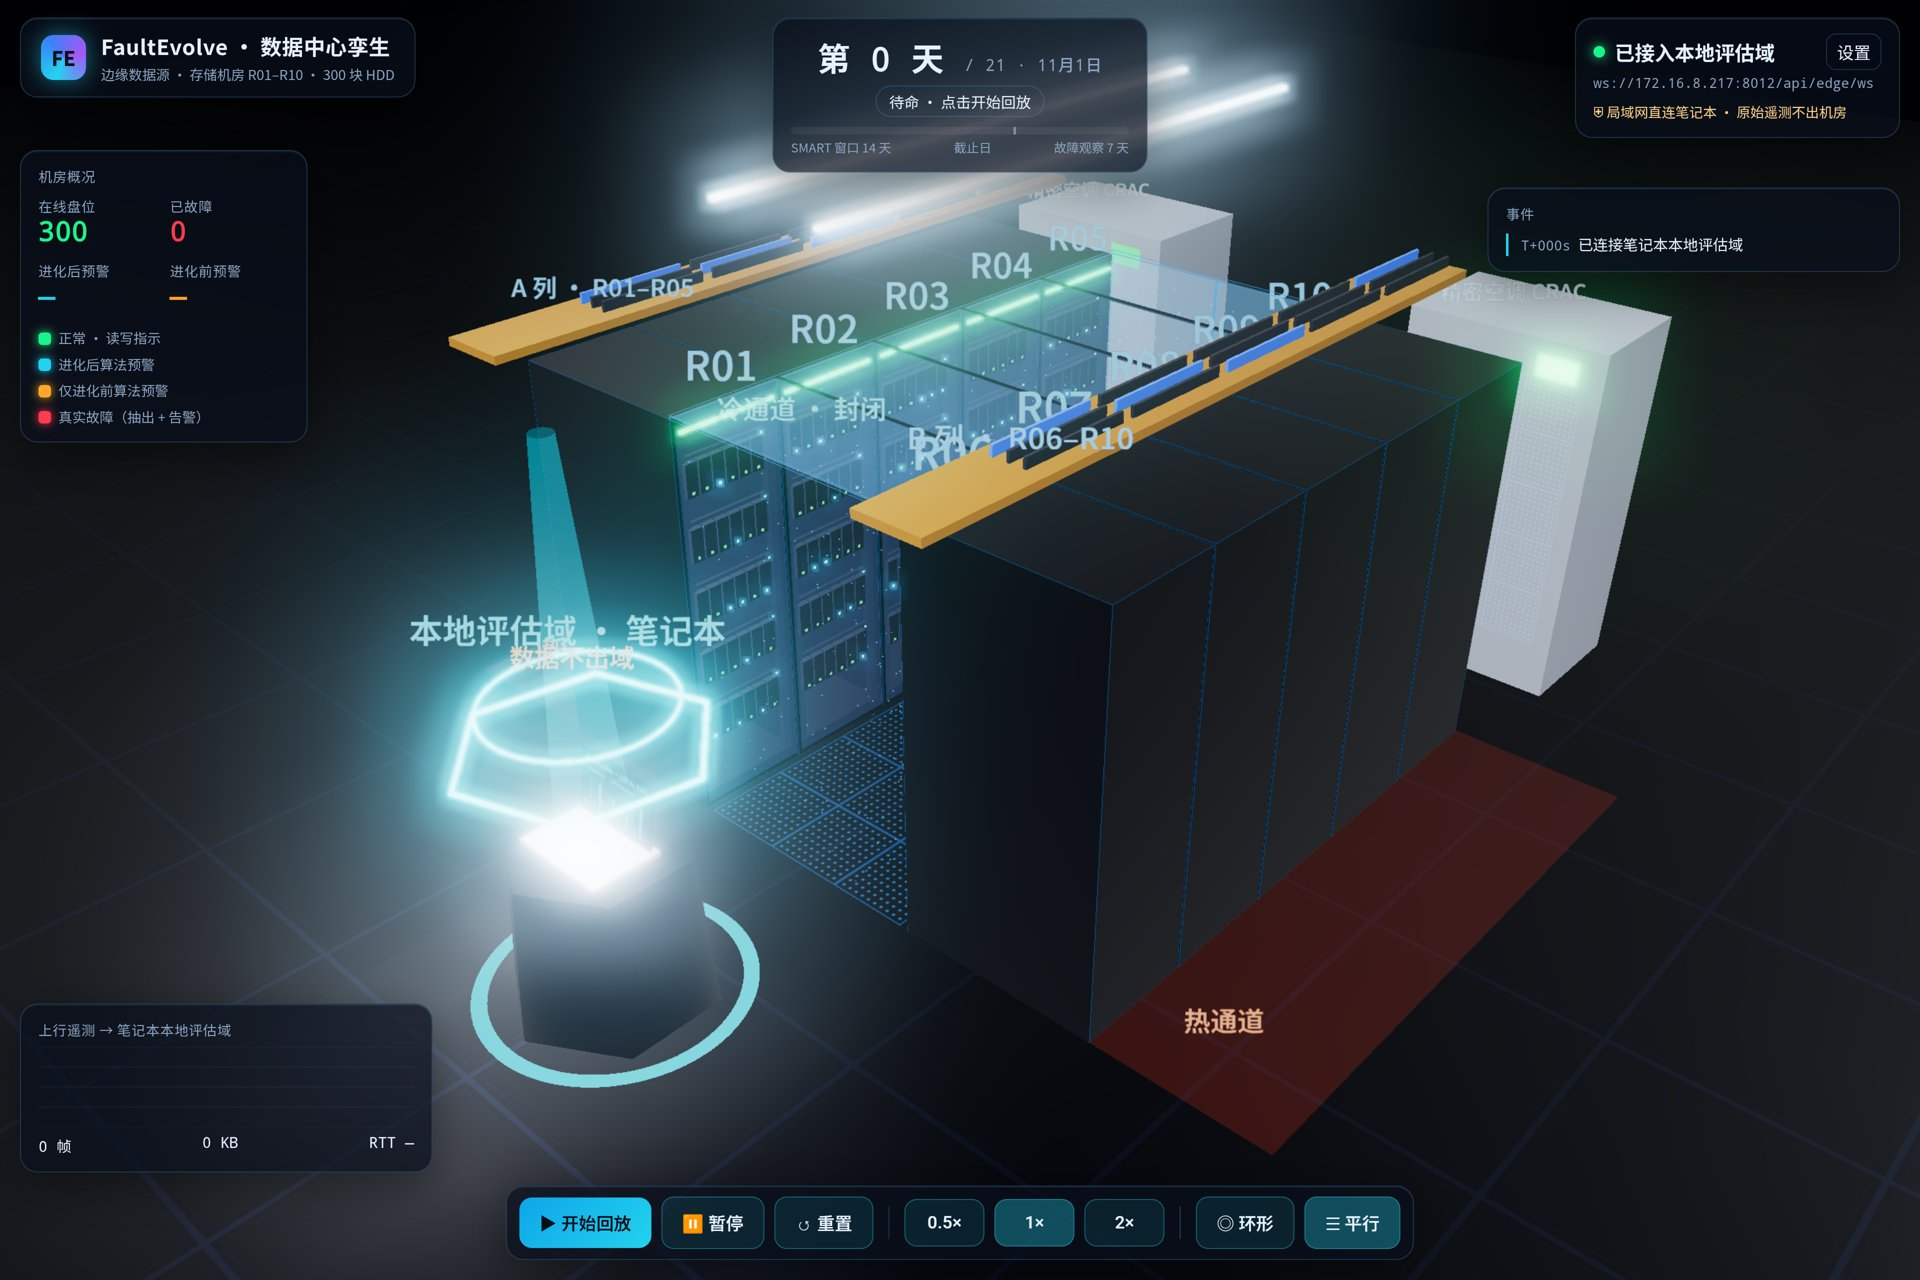
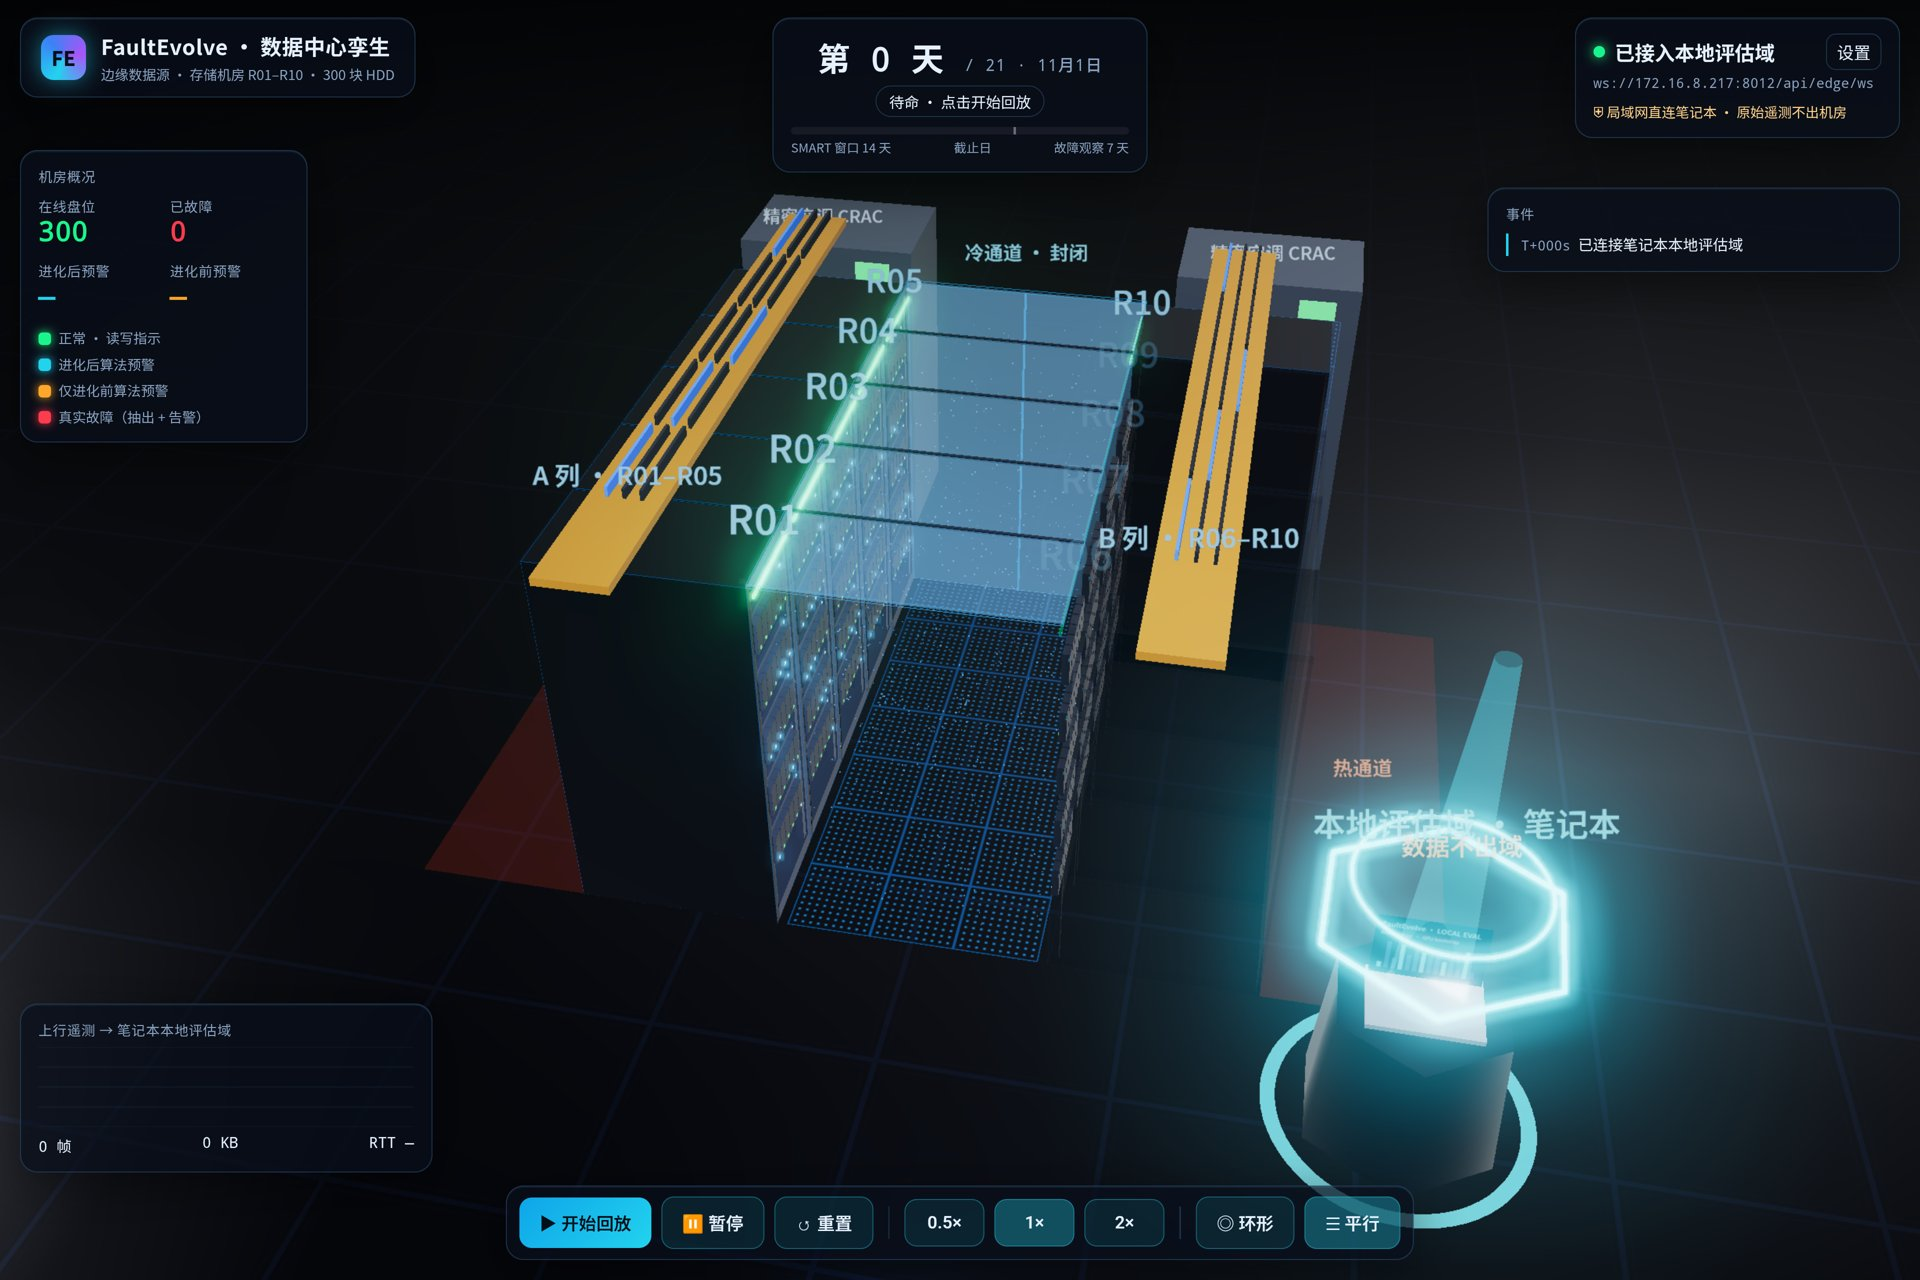
edge-tablet: keep the view unobstructed (occluders fade, node steps aside in rows, close-up clears the HUD card, drag no longer picks)

diff --git a/edge-tablet/src/scene.ts b/edge-tablet/src/scene.ts
@@ -16,7 +16,6 @@ const ARC_SPAN = (196 * Math.PI) / 180;
 const CHASSIS = 5;
 const BAYS = 6;
 const BAY_PITCH = 0.078;
-const NODE_POS = new THREE.Vector3(0, 0, 0.35);
 const AISLE = 1.4;
 const ROW_PITCH = RACK_W + 0.012;
 const ROW_Z0 = -0.75;
@@ -31,9 +30,25 @@ interface Pose {
   q: THREE.Quaternion;
 }
 
+interface Occluder {
+  obj: THREE.Object3D;
+  mats: Array<{ m: THREE.Material; opacity: number; transparent: boolean; depthWrite: boolean }>;
+  fade: number;
+  /** Only fades while a disk is in close-up (the edge node is the hero of the overview). */
+  focusOnly: boolean;
+  rack: number;
+  box: THREE.Box3;
+}
+
+/** In rows the node steps aside from the aisle mouth so the overview looks straight down the cold aisle. */
+const NODE_AT: Record<Layout, THREE.Vector3> = {
+  arc: new THREE.Vector3(0, 0, 0.35),
+  rows: new THREE.Vector3(2.4, 0, -0.2),
+};
+
 const VIEWS: Record<Layout, { pos: THREE.Vector3; target: THREE.Vector3 }> = {
   arc: { pos: new THREE.Vector3(0, 3.7, 5.0), target: new THREE.Vector3(0, 0.85, -0.75) },
-  rows: { pos: new THREE.Vector3(4.8, 5.0, 3.4), target: new THREE.Vector3(-0.3, 0.5, -2.2) },
+  rows: { pos: new THREE.Vector3(1.4, 6.3, 4.9), target: new THREE.Vector3(0, 1.0, -2.0) },
 };
 
 const COLORS = {
@@ -178,6 +193,11 @@ export class DataHall {
   private morph: { from: Pose[]; t: number } | null = null;
   private arcDecor = new THREE.Group();
   private rowDecor = new THREE.Group();
+  private node = new THREE.Group();
+  private nodeFrom = new THREE.Vector3();
+  private occluders: Occluder[] = [];
+  private focusIndex = -1;
+  private viewShift = 0;
   private bayLocal: THREE.Vector3[] = [];
   private packets: Packet[] = [];
   private air!: THREE.Points;
@@ -224,7 +244,7 @@ export class DataHall {
     this.controls.dampingFactor = 0.08;
     this.controls.maxPolarAngle = Math.PI * 0.48;
     this.controls.minDistance = 0.6;
-    this.controls.maxDistance = 14;
+    this.controls.maxDistance = 16;
     this.controls.addEventListener('start', () => {
       this.tween = null;
       this.idleSince = performance.now();
@@ -249,7 +269,11 @@ export class DataHall {
     this.composer.addPass(this.bloom);
     this.composer.addPass(new OutputPass());
 
-    canvas.addEventListener('pointerup', (e) => this.pick(e));
+    let down = { x: 0, y: 0 };
+    canvas.addEventListener('pointerdown', (e) => (down = { x: e.clientX, y: e.clientY }));
+    canvas.addEventListener('pointerup', (e) => {
+      if (Math.hypot(e.clientX - down.x, e.clientY - down.y) < 8) this.pick(e);
+    });
     window.addEventListener('resize', () => this.resize());
     this.resize();
     this.idleSince = performance.now();
@@ -309,13 +333,6 @@ export class DataHall {
       this.arcDecor.add(cable);
     }
     this.scene.add(this.arcDecor);
-    const floorGlow = new THREE.Mesh(
-      new THREE.RingGeometry(0.55, 0.62, 64),
-      new THREE.MeshBasicMaterial({ color: new THREE.Color(0x22d3ee).multiplyScalar(1.6), toneMapped: false, transparent: true, opacity: 0.8 }),
-    );
-    floorGlow.rotation.x = -Math.PI / 2;
-    floorGlow.position.set(NODE_POS.x, 0.005, NODE_POS.z);
-    this.scene.add(floorGlow);
   }
 
   /** Arc: racks ring the edge node, fronts facing inward. Rows: first half on the left, rest on the right, fronts facing the cold aisle. */
@@ -370,11 +387,11 @@ export class DataHall {
       hot.position.set(side * (ROW_X + RACK_D / 2 + 0.45), 0.003, zMid);
       d.add(hot);
       const hotLabel = textSprite('热通道', '#ffb08a', 34);
-      hotLabel.position.set(side * (ROW_X + RACK_D / 2 + 0.45), 0.2, ROW_Z0 - 0.3);
+      hotLabel.position.set(side * (ROW_X + RACK_D / 2 + 0.45), 0.2, zMid);
       d.add(hotLabel);
     }
     const coldLabel = textSprite('冷通道 · 封闭', '#8fe3ff', 34);
-    coldLabel.position.set(0, RACK_H + 0.2, ROW_Z0 - 0.15);
+    coldLabel.position.set(0, RACK_H + 0.25, zEnd);
     d.add(coldLabel);
 
     const glass = new THREE.MeshPhysicalMaterial({ color: 0x8fd3ff, roughness: 0.05, transparent: true, opacity: 0.12, depthWrite: false, side: THREE.DoubleSide });
@@ -408,20 +425,14 @@ export class DataHall {
       const tray = new THREE.Mesh(new THREE.BoxGeometry(0.34, 0.04, len + 0.6), trayMat);
       tray.position.set(side * ROW_X, 2.45, zMid + 0.3);
       d.add(tray);
+      this.addOccluder(tray);
       for (let k = 0; k < Math.ceil(this.rackGroups.length / 2) * 3; k += 1) {
         const cable = new THREE.Mesh(cableGeo, new THREE.MeshStandardMaterial({ color: k % 4 === 0 ? 0x2f7bff : 0x1a1f2b, roughness: 0.7 }));
         cable.position.set(side * ROW_X + ((k % 3) - 1) * 0.08, 2.5, ROW_Z0 - ROW_PITCH / 2 - Math.floor(k / 3) * ROW_PITCH);
         d.add(cable);
       }
     }
-    const stripMat = new THREE.MeshBasicMaterial({ color: new THREE.Color(0xbfe6ff).multiplyScalar(2.2), toneMapped: false });
-    for (const x of [-0.3, 0.3]) {
-      const strip = new THREE.Mesh(new THREE.BoxGeometry(0.03, 0.02, len), stripMat);
-      strip.position.set(x, 3.15, zMid);
-      d.add(strip);
-    }
-
-    const cracBody = new THREE.MeshStandardMaterial({ color: 0xc9d2de, metalness: 0.5, roughness: 0.45 });
+    const cracBody = new THREE.MeshStandardMaterial({ color: 0x5b6676, metalness: 0.7, roughness: 0.5 });
     const grille = ventTexture();
     grille.repeat.set(3, 5);
     for (const side of [-1, 1]) {
@@ -443,6 +454,7 @@ export class DataHall {
       label.position.set(0, 2.2, 0.38);
       g.add(box, face, lcd, label);
       d.add(g);
+      this.addOccluder(g);
     }
 
     const rows = Math.ceil(this.rackGroups.length / 2);
@@ -515,6 +527,7 @@ export class DataHall {
       label.position.set(0, RACK_H + 0.16, RACK_D / 2);
       g.add(label);
       this.scene.add(g);
+      this.addOccluder(g, false, r);
     }
   }
 
@@ -608,8 +621,8 @@ export class DataHall {
   }
 
   private buildEdgeNode(): void {
-    const g = new THREE.Group();
-    g.position.copy(NODE_POS);
+    const g = this.node;
+    g.position.copy(NODE_AT.arc);
     const pedestal = new THREE.Mesh(
       new THREE.CylinderGeometry(0.42, 0.48, 0.75, 6),
       new THREE.MeshStandardMaterial({ color: 0x111827, metalness: 0.85, roughness: 0.3 }),
@@ -634,20 +647,98 @@ export class DataHall {
     const ringMat = new THREE.MeshBasicMaterial({ color: new THREE.Color(0x22d3ee).multiplyScalar(2.2), toneMapped: false });
     this.nodeRing = new THREE.Mesh(new THREE.TorusGeometry(0.55, 0.012, 8, 6), ringMat);
     this.nodeRing.rotation.x = Math.PI / 2;
-    this.nodeRing.position.set(NODE_POS.x, 1.25, NODE_POS.z);
+    this.nodeRing.position.set(0, 1.25, 0);
     this.nodeRing2 = new THREE.Mesh(new THREE.TorusGeometry(0.4, 0.008, 8, 64), ringMat);
     this.nodeRing2.rotation.x = Math.PI / 2;
-    this.nodeRing2.position.set(NODE_POS.x, 1.45, NODE_POS.z);
+    this.nodeRing2.position.set(0, 1.45, 0);
     this.nodeBeam = new THREE.Mesh(
       new THREE.CylinderGeometry(0.05, 0.22, 2.6, 24, 1, true),
       new THREE.MeshBasicMaterial({ color: 0x22d3ee, transparent: true, opacity: 0.12, blending: THREE.AdditiveBlending, side: THREE.DoubleSide, depthWrite: false }),
     );
-    this.nodeBeam.position.set(NODE_POS.x, 1.3, NODE_POS.z);
+    this.nodeBeam.position.set(0, 1.3, 0);
     const label = textSprite('本地评估域 · 笔记本', '#7ee8ff', 40);
-    label.position.set(NODE_POS.x, 1.78, NODE_POS.z);
+    label.position.set(0, 1.78, 0);
     const sub = textSprite('数据不出域', '#ffd28a', 30);
-    sub.position.set(NODE_POS.x, 1.66, NODE_POS.z);
-    this.scene.add(g, this.nodeRing, this.nodeRing2, this.nodeBeam, label, sub);
+    sub.position.set(0, 1.66, 0);
+    const floorGlow = new THREE.Mesh(
+      new THREE.RingGeometry(0.55, 0.62, 64),
+      new THREE.MeshBasicMaterial({ color: new THREE.Color(0x22d3ee).multiplyScalar(1.6), toneMapped: false, transparent: true, opacity: 0.8 }),
+    );
+    floorGlow.rotation.x = -Math.PI / 2;
+    floorGlow.position.y = 0.005;
+    g.add(this.nodeRing, this.nodeRing2, this.nodeBeam, label, sub, floorGlow);
+    this.scene.add(g);
+    this.addOccluder(g, true);
+  }
+
+  /** Anything that may stand between the camera and what it looks at; it fades to a ghost instead of hiding the view. */
+  private addOccluder(obj: THREE.Object3D, focusOnly = false, rack = -1): void {
+    const mats: Occluder['mats'] = [];
+    obj.traverse((o) => {
+      const holder = o as THREE.Mesh;
+      const m = holder.material;
+      if (!m || Array.isArray(m)) return;
+      const c = m.clone();
+      holder.material = c;
+      mats.push({ m: c, opacity: c.opacity, transparent: c.transparent, depthWrite: c.depthWrite });
+    });
+    this.occluders.push({ obj, mats, fade: 1, focusOnly, rack, box: new THREE.Box3() });
+  }
+
+  private updateOcclusion(dt: number): void {
+    const focusing = this.focusIndex >= 0 && this.returnTimer !== null;
+    const eye = this.camera.position;
+    const looks = focusing
+      ? [this.diskWorldPosition(this.focusIndex)]
+      : [this.controls.target, ...this.occlusionProbes()];
+    const keepRack = focusing ? this.disks[this.focusIndex].rack : -1;
+    const ray = new THREE.Ray();
+    const hit = new THREE.Vector3();
+    for (const o of this.occluders) {
+      let blocked = false;
+      if (o.obj.visible && o.rack !== keepRack && (focusing || !o.focusOnly)) {
+        o.box.setFromObject(o.obj);
+        for (const look of looks) {
+          const dist = eye.distanceTo(look);
+          ray.set(eye, look.clone().sub(eye).normalize());
+          if (ray.intersectBox(o.box, hit) && eye.distanceTo(hit) < dist - 0.05 && !o.box.containsPoint(look)) {
+            blocked = true;
+            break;
+          }
+        }
+      }
+      const target = blocked ? 0.12 : 1;
+      if (Math.abs(o.fade - target) < 1e-3) continue;
+      o.fade += (target - o.fade) * Math.min(1, dt * 6);
+      if (Math.abs(o.fade - target) < 0.01) o.fade = target;
+      for (const s of o.mats) {
+        s.m.opacity = s.opacity * o.fade;
+        s.m.transparent = s.transparent || o.fade < 1;
+        s.m.depthWrite = s.depthWrite && o.fade >= 1;
+        s.m.needsUpdate = true;
+      }
+    }
+  }
+
+  /** The disk card sits right of centre on the HUD, so a close-up slides the picture left to keep the disk clear of it. */
+  private updateViewShift(dt: number): void {
+    const want = this.focusIndex >= 0 && this.returnTimer !== null ? 0.15 : 0;
+    if (Math.abs(this.viewShift - want) < 1e-4) return;
+    this.viewShift += (want - this.viewShift) * Math.min(1, dt * 3);
+    if (Math.abs(this.viewShift - want) < 1e-3) this.viewShift = want;
+    const w = window.innerWidth;
+    const h = window.innerHeight;
+    if (this.viewShift === 0) this.camera.clearViewOffset();
+    else this.camera.setViewOffset(w, h, this.viewShift * w, 0, w, h);
+  }
+
+  /** Overview probes: the drive faces the overview is meant to show, beyond the look-at point. */
+  private occlusionProbes(): THREE.Vector3[] {
+    if (this.layout === 'arc') return [];
+    const len = this.rowLength();
+    return [-1, 1].flatMap((side) =>
+      [0.2, 0.5, 0.8].map((f) => new THREE.Vector3(side * (AISLE / 2 - 0.02), 1.1, ROW_Z0 - f * len)),
+    );
   }
 
   private buildPackets(): void {
@@ -672,6 +763,7 @@ export class DataHall {
     this.overviewTarget.copy(VIEWS[layout].target);
     this.seedAir();
     if (animate) {
+      this.nodeFrom.copy(this.node.position);
       this.morph = { from: this.rackGroups.map((g) => ({ p: g.position.clone(), q: g.quaternion.clone() })), t: 0 };
       if (this.returnTimer !== null) window.clearTimeout(this.returnTimer);
       this.returnTimer = null;
@@ -679,6 +771,7 @@ export class DataHall {
       return;
     }
     this.poses[layout].forEach((pose, r) => this.applyPose(r, pose.p, pose.q));
+    this.node.position.copy(NODE_AT[layout]);
     this.arcDecor.visible = layout === 'arc';
     this.rowDecor.visible = layout === 'rows';
     this.updateBayMatrices();
@@ -700,6 +793,7 @@ export class DataHall {
       q.slerpQuaternions(m.from[r].q, to.q, k);
       this.applyPose(r, p, q);
     });
+    this.node.position.lerpVectors(this.nodeFrom, NODE_AT[this.layout], k);
     if (k >= 0.5) {
       this.arcDecor.visible = this.layout === 'arc';
       this.rowDecor.visible = this.layout === 'rows';
@@ -767,7 +861,7 @@ export class DataHall {
       const r = Math.floor(Math.random() * racks);
       const from = new THREE.Vector3(0, RACK_H + 0.02, 0).applyMatrix4(this.rackMatrices[r]);
       from.x += (Math.random() - 0.5) * 0.4;
-      const to = new THREE.Vector3(NODE_POS.x, 1.25, NODE_POS.z);
+      const to = this.node.position.clone().setY(1.25);
       const mid = from.clone().lerp(to, 0.5);
       mid.y = 2.9 + Math.random() * 0.4;
       this.launch(new THREE.QuadraticBezierCurve3(from, mid, to), COLORS.activity, 0.55 + Math.random() * 0.3, k * 0.04);
@@ -776,7 +870,7 @@ export class DataHall {
 
   downlink(indices: number[], color: 'after' | 'before'): void {
     indices.forEach((i, k) => {
-      const from = new THREE.Vector3(NODE_POS.x, 1.25, NODE_POS.z);
+      const from = this.node.position.clone().setY(1.25);
       const to = this.diskWorldPosition(i).add(this.diskNormal(i).multiplyScalar(0.05));
       const mid = from.clone().lerp(to, 0.5);
       mid.y = 3.0;
@@ -794,11 +888,12 @@ export class DataHall {
   }
 
   focus(i: number): void {
+    this.focusIndex = i;
     const p = this.diskWorldPosition(i);
     const n = this.diskNormal(i);
     const camPos =
       this.layout === 'rows'
-        ? p.clone().add(n.multiplyScalar(0.6)).add(new THREE.Vector3(0, 0.3, 0.6))
+        ? p.clone().add(n.multiplyScalar(0.85)).add(new THREE.Vector3(0, 0.35, 0.75))
         : p.clone().add(n.multiplyScalar(1.25)).add(new THREE.Vector3(0.45, 0.25, 0));
     this.tweenTo(camPos, p, 1.6);
     this.swayT0 = -1;
@@ -856,6 +951,7 @@ export class DataHall {
     this.composer.setSize(w, h);
     this.bloom.resolution.set(w / 2, h / 2);
     this.camera.aspect = w / h;
+    if (this.viewShift > 0) this.camera.setViewOffset(w, h, this.viewShift * w, 0, w, h);
     this.camera.updateProjectionMatrix();
   }
 
@@ -888,6 +984,8 @@ export class DataHall {
     }
 
     this.stepMorph(dt);
+    this.updateOcclusion(dt);
+    this.updateViewShift(dt);
 
     let moved = false;
     for (let i = 0; i < this.disks.length; i += 1) {

diff --git a/docs/guide/README.md b/docs/guide/README.md
@@ -190,7 +190,7 @@ New-NetFirewallRule -DisplayName FaultEvolveEdge -Direction Inbound -Protocol TC
 
 ![平板 · 平行布局（冷热通道）](../screenshots/evobot/12-tablet-rows.jpg)
 
-平行布局下硬盘故障时，镜头进入冷通道贴近故障盘，故障盘抽出并红色告警：
+视角不会被遮挡：平行布局默认从冷通道端头斜上方俯视，笔记本节点让到通道口一侧；自己拖动旋转时，挡在视线上的机柜、空调、走线架会自动淡成虚影；硬盘故障时镜头进入冷通道贴近故障盘，画面左移让开右侧的硬盘详情卡片（拖动视角不会误触点选）：
 
 ![平板 · 平行布局故障聚焦](../screenshots/evobot/13-tablet-rows-focus.jpg)
 
